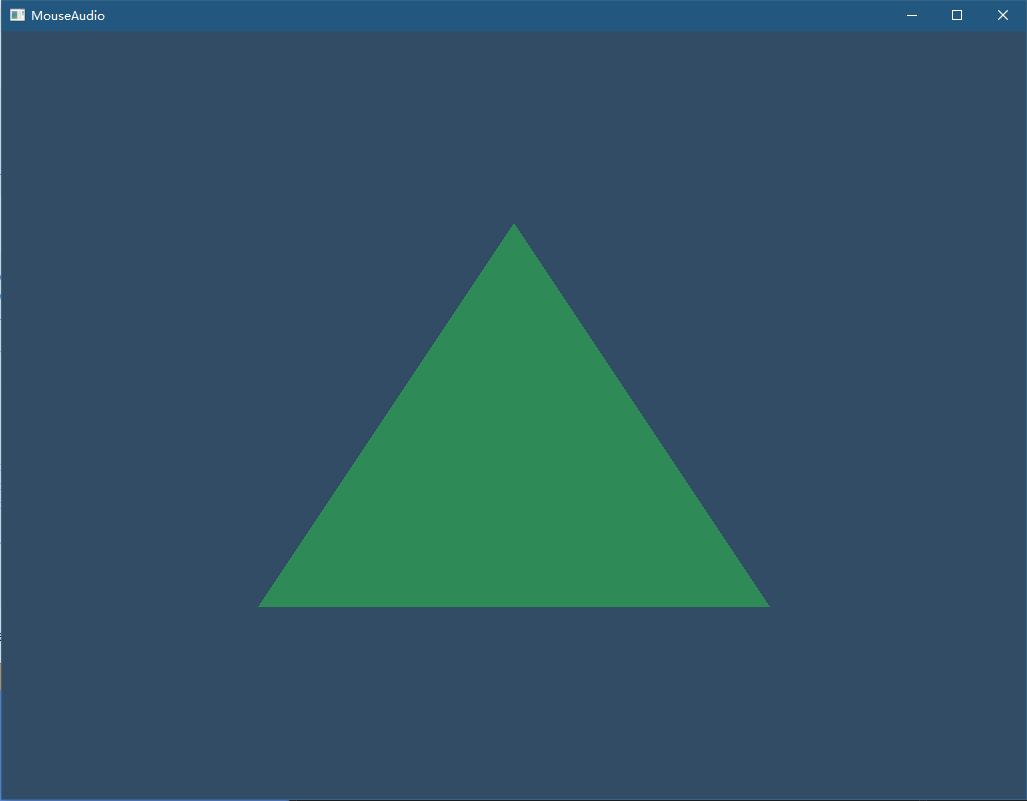
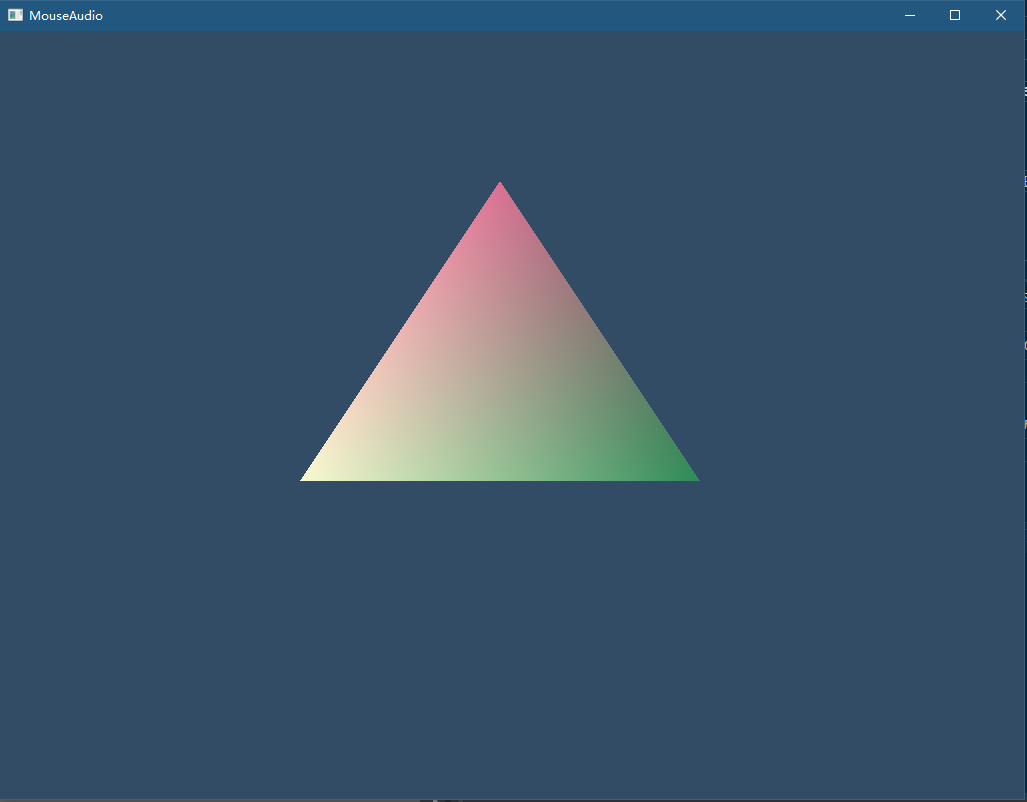
Triangle: use color and screen position

diff --git a/Triangle/Src/TriangleRender.cpp b/Triangle/Src/TriangleRender.cpp
@@ -3,9 +3,9 @@
 #include "Application.h"
 #include "Common.h"
 
-#include <algorithm>
-#include <DirectXTK/DirectXHelpers.h>
 #include <DirectXColors.h>
+#include <DirectXTK/DirectXHelpers.h>
+#include <algorithm>
 namespace Tao3D
 {
 TriangleRender::TriangleRender() {}
@@ -14,7 +14,10 @@ TriangleRender::~TriangleRender() {}
 void TriangleRender::init(int width, int height)
 {
     m_states = std::make_unique<CommonStates>(gDevice);
+    auto projection = Matrix::CreateScale(2.f / float(width), -2.f / float(height), 1.f) * Matrix::CreateTranslation(-1.f, 1.f, 0.f);
+
     m_effect = std::make_unique<BasicEffect>(gDevice);
+    m_effect->SetProjection(projection);
     m_effect->SetVertexColorEnabled(true);
     void const *shaderByteCode;
     size_t byteCodeLength;
@@ -43,9 +46,12 @@ bool TriangleRender::render()
     gContext->IASetInputLayout(m_inputLayout.Get());
 
     m_primitiveBatch->Begin();
-    VertexPositionColor v1(Vector3(0.f, 0.5f, 0.5f), Colors::SeaGreen);
-    VertexPositionColor v2(Vector3(0.5f, -0.5f, 0.5f), Colors::SeaGreen);
-    VertexPositionColor v3(Vector3(-0.5f, -0.5f, 0.5f), Colors::SeaGreen);
+    // VertexPositionColor v1(Vector3(0.f, 0.5f, 0.5f), Colors::SeaGreen);
+    // VertexPositionColor v2(Vector3(0.5f, -0.5f, 0.5f), Colors::SeaGreen);
+    // VertexPositionColor v3(Vector3(-0.5f, -0.5f, 0.5f), Colors::SeaGreen);
+    VertexPositionColor v1(Vector3(500.f, 150.f, 0.f), Colors::PaleVioletRed);
+    VertexPositionColor v2(Vector3(700.f, 450.f, 0.f), Colors::SeaGreen);
+    VertexPositionColor v3(Vector3(300.f, 450.f, 0.f), Colors::LightGoldenrodYellow);
     m_primitiveBatch->DrawTriangle(v1, v2, v3);
     m_primitiveBatch->End();
     return true;
